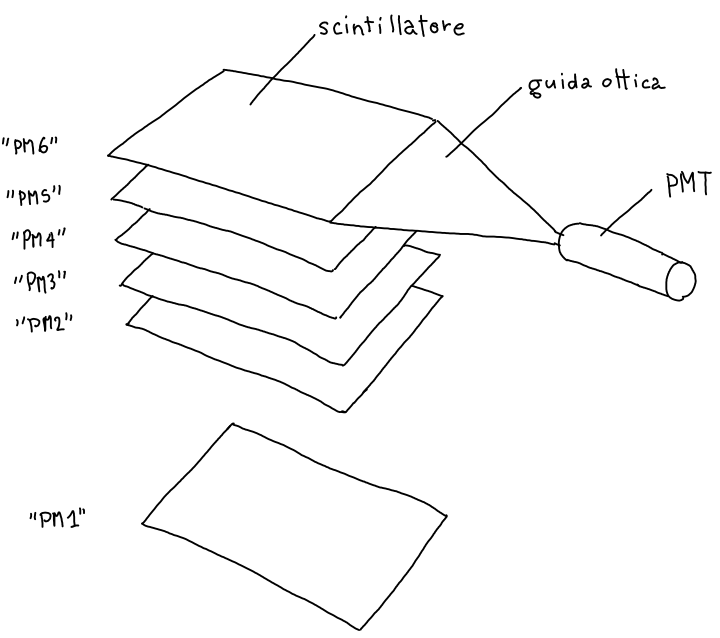
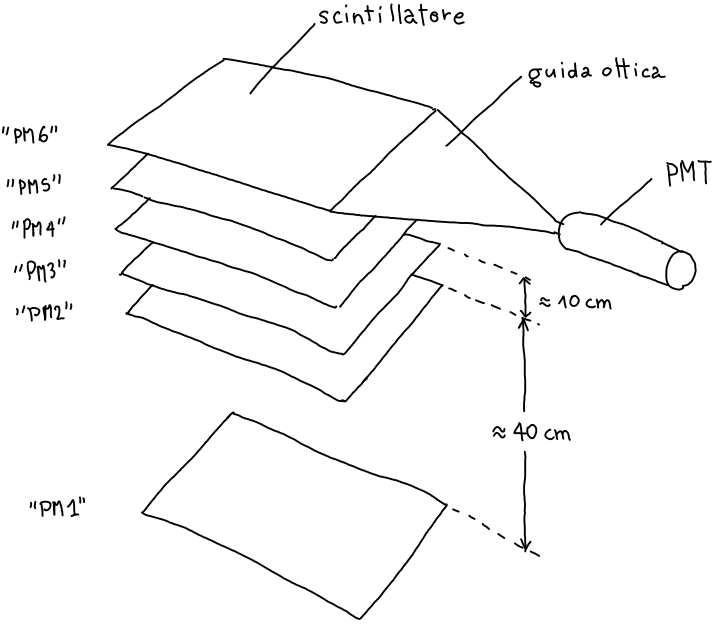
aggiunto miniscint ho anche aggiunto le misure approssimative sulla figura delle lastre

diff --git a/esp-1-flusso_di_raggi_cosmici/relazione/introduzione.tex b/esp-1-flusso_di_raggi_cosmici/relazione/introduzione.tex
@@ -17,8 +17,17 @@ Vedremo che possiamo misurare solo il tasso di muoni.
 	La guida ottica e il tubo fotomoltiplicatore (PMT) sono disegnati solo per il PM6.}
 \end{figure}
 
-Abbiamo a disposizione 6 lastre di scintillatore plastico
+\begin{figure}
+	\center
+	\includegraphics[width=23em]{miniscint}
+	\caption{\label{fig:miniscint}
+	Piccolo scintillatore mobile, che chiamiamo \emph{miniscint}.}
+\end{figure}
+
+La parte principale dell'apparato sono 6 lastre di scintillatore plastico
 posizionate orizzontali e allineate verticalmente,
 che non possiamo spostare,
 collegate a tubi fotomoltiplicatori (vedi \autoref{fig:apparato}).
-\marginpar{Aggiungere miniscint.}
+
+Disponiamo anche di un piccolo scintillatore mobile (il <<miniscint>>) (\autoref{fig:miniscint})
+che può essere appoggiato sulle lastre principali.
